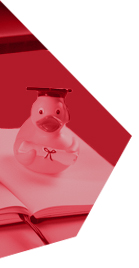
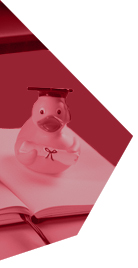
Füge zweites Hintergrundbild hinzu

diff --git a/css/layout.css b/css/layout.css
@@ -396,7 +396,7 @@ footer ul li a {
 
 #Hintergrund_Startseite{
   width: 10vw;
-  height: 82vh;
+  height: 52vh;
   float: right;
   background-image: url(../img/kv_mediamanagement.jpg);
   background-repeat: no-repeat;
@@ -404,6 +404,18 @@ footer ul li a {
   background-size: 100% 100%;
   margin-top: 0;
 }
+
+#Hintergrund_Startseite_zwei{
+  width: 10vw;
+  height: 35vh;
+  float: right top; 
+  background-image: url( ../img/kv_start_01.jpg);
+  background-repeat: no-repeat;
+  background-position: left;
+  background-size: 100% 100%;
+  margin-top: 0;
+}
+
 
 #Fragen {
   text-decoration: none;
@@ -413,7 +425,7 @@ footer ul li a {
 }
 
 #Fragen #Praesentation_button {
-	background-color: #96000f;
+	background-color: #93000f;
 }
 
 #Fragen #Praesentation_button p {
@@ -437,7 +449,7 @@ footer ul li a {
 }
 
 #Startseite p span {
- color: #96000f; 
+ color: #93000f; 
  font-weight: bolder;
 }
 
@@ -447,7 +459,6 @@ footer ul li a {
   justify-content: space-around;
   align-items: center;
   flex-wrap: wrap;
-  border: 1px solid #aaa5a0;
   width: 100vw;
   height: 18vh;
   margin: 0;

diff --git a/Startseite.html b/Startseite.html
@@ -105,6 +105,7 @@
 
 
 	<div  id="Hintergrund_Startseite" class="box"></div>
+	<div  id="Hintergrund_Startseite_zwei" class="box"></div>
 
 	<div class="wrapper" id="Inhalt" style="padding-top: 0; ">
 
